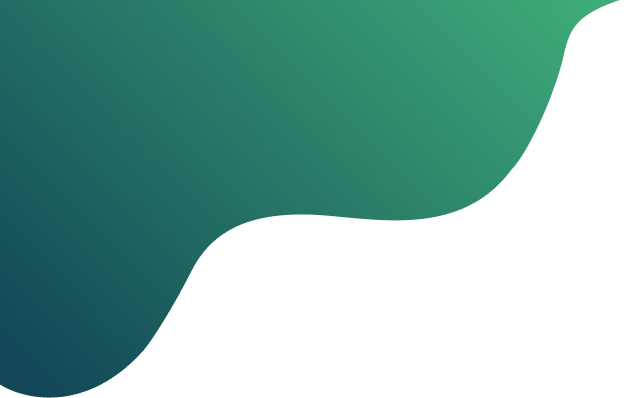
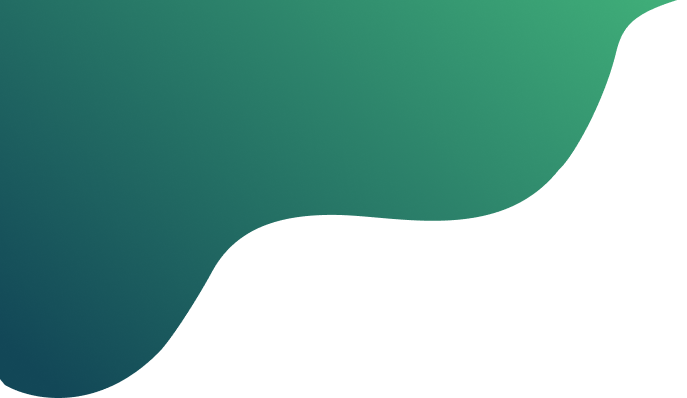
feat: add bg decor images

diff --git a/src/components/Stats/Stats.tsx b/src/components/Stats/Stats.tsx
@@ -7,9 +7,11 @@ import clsx from 'clsx';
 
 export default function Stats() {
   const [cardsVisible, setCardsVisible] = useState(false);
+  const [loadMore, setLoadMore] = useState(false);
 
   const handleShowTable = () => setCardsVisible(false);
   const handleShowCards = () => setCardsVisible(true);
+  const handleLoadMore = () => setLoadMore(true);
 
   return (
     <main>
@@ -51,13 +53,18 @@ export default function Stats() {
 
           {cardsVisible ? <CardList /> : <RowList />}
 
-          <button
-            aria-label='Button for loading the next part of data'
-            type='button'
-            className={s.loadMoreButton}
-          >
-            LOAD MORE
-          </button>
+          {!loadMore && (
+            <button
+              onClick={handleLoadMore}
+              aria-label='Button for loading the next part of data'
+              type='button'
+              className={s.loadMoreButton}
+            >
+              LOAD MORE
+            </button>
+          )}
+
+          {loadMore && <p className={s.loadMoreInfo}>All data loaded 🎉</p>}
         </Container>
       </section>
     </main>

diff --git a/src/App.css b/src/App.css
@@ -1,0 +1,29 @@
+.app {
+  position: relative;
+
+  &::before,
+  &::after {
+    position: absolute;
+    content: '';
+    background-repeat: no-repeat;
+    width: 100%;
+    height: 100%;
+    z-index: -1;
+  }
+
+  &::before {
+    background-image: url(/public/images/vector.png);
+    top: 0;
+    left: 0;
+    max-width: 690px;
+    max-height: 398px;
+  }
+
+  &::after {
+    background-image: url(/images/bg-decor-2.png);
+    right: 0;
+    bottom: 40px;
+    max-width: 214px;
+    max-height: 368px;
+  }
+}

diff --git a/src/components/CardList/CardList.tsx b/src/components/CardList/CardList.tsx
@@ -1,6 +1,6 @@
 import { useState } from 'react';
 import s from './CardList.module.css';
-import data from '../../../public/data.json';
+import data from '../../assets/data.json';
 import CardItem from '../CardItem/CardItem';
 import type { Data } from '../../types/data';
 

diff --git a/src/components/RowList/RowList.tsx b/src/components/RowList/RowList.tsx
@@ -1,5 +1,5 @@
 import s from './RowList.module.css';
-import list from '../../../public/data.json';
+import list from '../../assets/data.json';
 import type { Data } from '../../types/data';
 import RowItem from '../RowItem/RowItem';
 import { useState } from 'react';

diff --git a/src/App.tsx b/src/App.tsx
@@ -1,12 +1,13 @@
 import Header from './components/Header/Header';
 import Stats from './components/Stats/Stats';
+import './App.css';
 
 function App() {
   return (
-    <>
+    <div className='app'>
       <Header />
       <Stats />
-    </>
+    </div>
   );
 }
 

diff --git a/src/components/Stats/Stats.module.css b/src/components/Stats/Stats.module.css
@@ -56,3 +56,9 @@
     color: #3d8eda;
   }
 }
+
+.loadMoreInfo {
+  font-weight: 400;
+  text-align: center;
+  height: 30px;
+}
